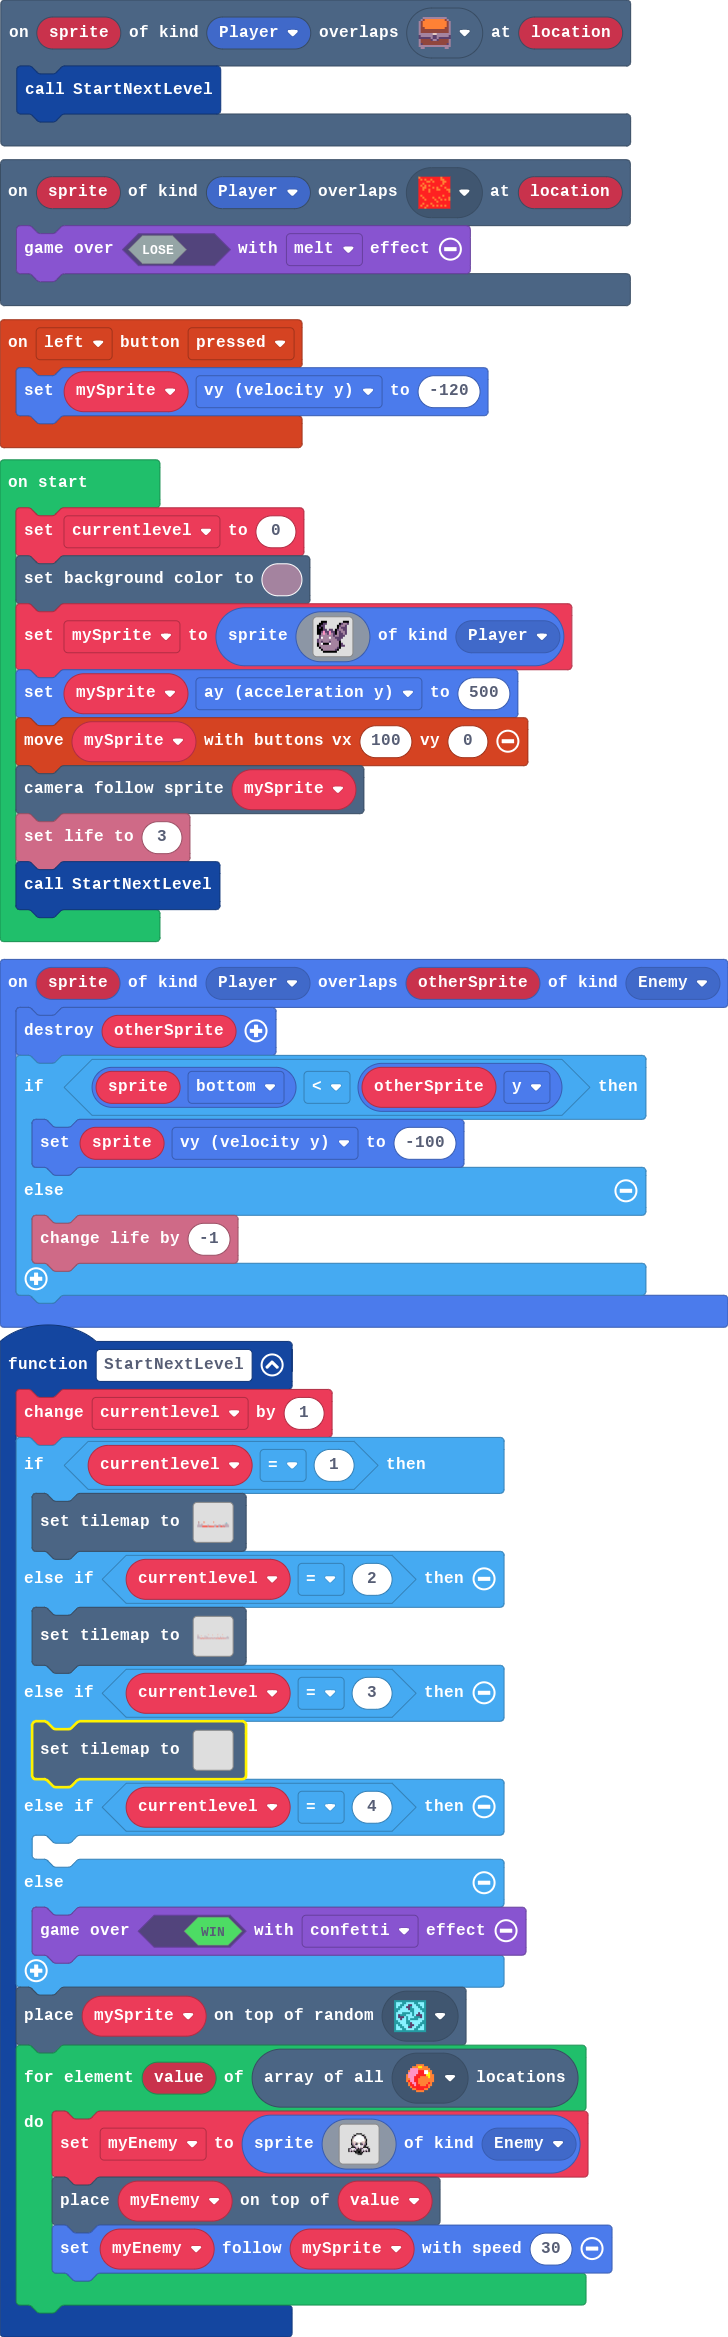
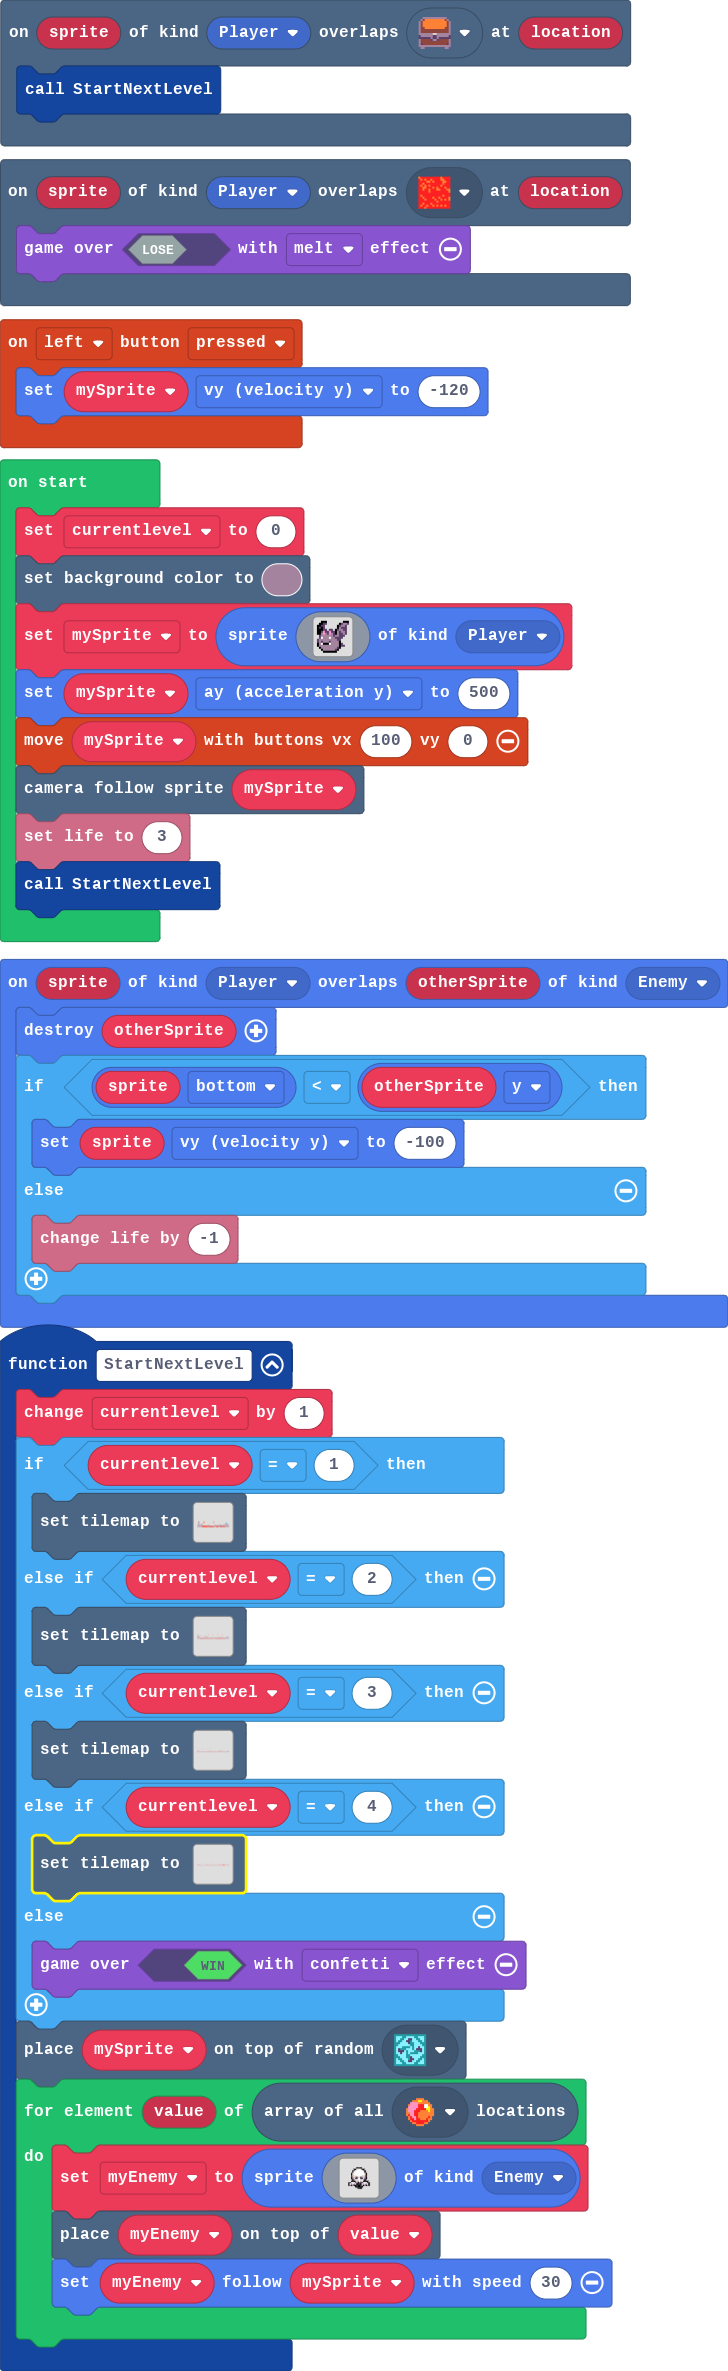
Finished the amount of levels

Changed region(s): [[0.0, 0.0312, 1.0, 0.9683], [0.7555, 0.0, 0.7857, 0.0312], [0.5742, 0.0, 0.6044, 0.0312]]

diff --git a/tilemap.g.ts b/tilemap.g.ts
@@ -122,19 +122,6 @@ namespace myTiles {
 22222...2...2.2.2.2.2.22..22.2..2...2...2..2.22222
 22222...2...2.2.2.2.2.22..22.2..2...2...2..2.22222
 `, [myTiles.transparency16,sprites.dungeon.floorMixed,myTiles.tile1,sprites.dungeon.collectibleInsignia,sprites.dungeon.chestClosed,sprites.dungeon.collectibleRedCrystal], TileScale.Sixteen);
-            case "level8":
[1 lines of base64/hex data omitted]
-................................................................................
-................................................................................
-................................................................................
-................................................................................
-................................................................................
-................................................................................
-................................................................................
-................................................................................
-................................................................................
-................................................................................
-`, [myTiles.transparency16], TileScale.Sixteen);
             case "level9":
             case "level9":return tiles.createTilemap(hex`1000100000000000000000000000000000000000000000000000000000000000000000000000000000000000000000000000000000000000000000000000000000000000000000000000000000000000000000000000000000000000000000000000000000000000000000000000000000000000000000000000000000000000000000000000000000000000000000000000000000000000000000000000000000000000000000000000000000000000000000000000000000000000000000000000000000000000000000000000000000000000000000000000000000000000000000000000000000000000000000000000000000000000000000000000000000000000`, img`
 . . . . . . . . . . . . . . . . 
@@ -154,6 +141,51 @@ namespace myTiles {
 . . . . . . . . . . . . . . . . 
 . . . . . . . . . . . . . . . . 
 `, [myTiles.transparency16], TileScale.Sixteen);
+            case "level10":
+            case "level10":return tiles.createTilemap(hex`1000100000000000000000000000000000000000000000000000000000000000000000000000000000000000000000000000000000000000000000000000000000000000000000000000000000000000000000000000000000000000000000000000000000000000000000000000000000000000000000000000000000000000000000000000000000000000000000000000000000000000000000000000000000000000000000000000000000000000000000000000000000000000000000000000000000000000000000000000000000000000000000000000000000000000000000000000000000000000000000000000000000000000000000000000000000000000`, img`
+. . . . . . . . . . . . . . . . 
+. . . . . . . . . . . . . . . . 
+. . . . . . . . . . . . . . . . 
+. . . . . . . . . . . . . . . . 
+. . . . . . . . . . . . . . . . 
+. . . . . . . . . . . . . . . . 
+. . . . . . . . . . . . . . . . 
+. . . . . . . . . . . . . . . . 
+. . . . . . . . . . . . . . . . 
+. . . . . . . . . . . . . . . . 
+. . . . . . . . . . . . . . . . 
+. . . . . . . . . . . . . . . . 
+. . . . . . . . . . . . . . . . 
+. . . . . . . . . . . . . . . . 
+. . . . . . . . . . . . . . . . 
+. . . . . . . . . . . . . . . . 
+`, [myTiles.transparency16], TileScale.Sixteen);
+            case "level8":
[1 lines of base64/hex data omitted]
+................................................................................
+................................................................................
+................................................................................
+................................................................................
+..........................................................2.....................
+........................................................2.2.2...................
+222........................2..2..2....................2.2.2.2.2..............222
+2222..........2.........2..2..2..2..2...............2.2.2.2.2.2.2...........2222
+2222.2..2..2..2..22..22.2..2..2..2..2.2.222....2222.2.2.2.2.2.2.2.2.22.2222.2222
+2222.2..2..2..2..22..22.2..2..2..2..2.2.222....2222.2.2.2.2.2.2.2.2.22.2222.2222
+`, [myTiles.transparency16,myTiles.tile1,sprites.dungeon.floorMixed,sprites.dungeon.collectibleInsignia,sprites.dungeon.collectibleRedCrystal,sprites.dungeon.chestClosed], TileScale.Sixteen);
+            case "level11":
[1 lines of base64/hex data omitted]
+....................................................................................................
+....................................................................................................
+....................................................................................................
+....................................................................................................
+....................................................................................2...............
+............................22..................2........................2......2...................
+.222........................22.............2....2....2................2................2........222.
+22222.......................22..22.....2...2....2....2...2.........2........2.............2....22222
+22222.2.2..2....2...22..22..22..22..2..2...2....2....2...2..2.2222............................222222
+22222.2.2..2....2...22..22..22..22..2..2...2....2....2...2..2.2222............................222222
+`, [myTiles.transparency16,myTiles.tile1,sprites.dungeon.floorMixed,sprites.dungeon.chestClosed,sprites.dungeon.collectibleRedCrystal,sprites.dungeon.collectibleInsignia], TileScale.Sixteen);
         }
         return null;
     })

diff --git a/images.g.ts b/images.g.ts
@@ -47,24 +47,6 @@ f b b b b b b b b b b f c c . .
 ........................
 ........................
 `;
-            case "image3":return img`
-. . f f f . . . . . . . . f f f 
-. f f c c . . . . . . f c b b c 
-f f c c . . . . . . f c b b c . 
-f c f c . . . . . . f b c c c . 
-f f f c c . c c . f c b b c c . 
-f f c 3 c c 3 c c f b c b b c . 
-f f b 3 b c 3 b c f b c c b c . 
-. c b b b b b b c b b c c c . . 
-. c 1 b b b 1 b b c c c c . . . 
-c b b b b b b b b b c c . . . . 
-c b c b b b c b b b b f . . . . 
-f b 1 f f f 1 b b b b f c . . . 
-f b b b b b b b b b b f c c . . 
-. f b b b b b b b b c f . . . . 
-. . f b b b b b b c f . . . . . 
-. . . f f f f f f f . . . . . . 
-`;
         }
         return null;
     })

diff --git a/main.ts b/main.ts
@@ -7,7 +7,7 @@ function StartNextLevel () {
     } else if (currentlevel == 3) {
         tiles.setTilemap(tilemap`level8`)
     } else if (currentlevel == 4) {
-    	
+        tiles.setTilemap(tilemap`level11`)
     } else {
         game.over(true, effects.confetti)
     }
